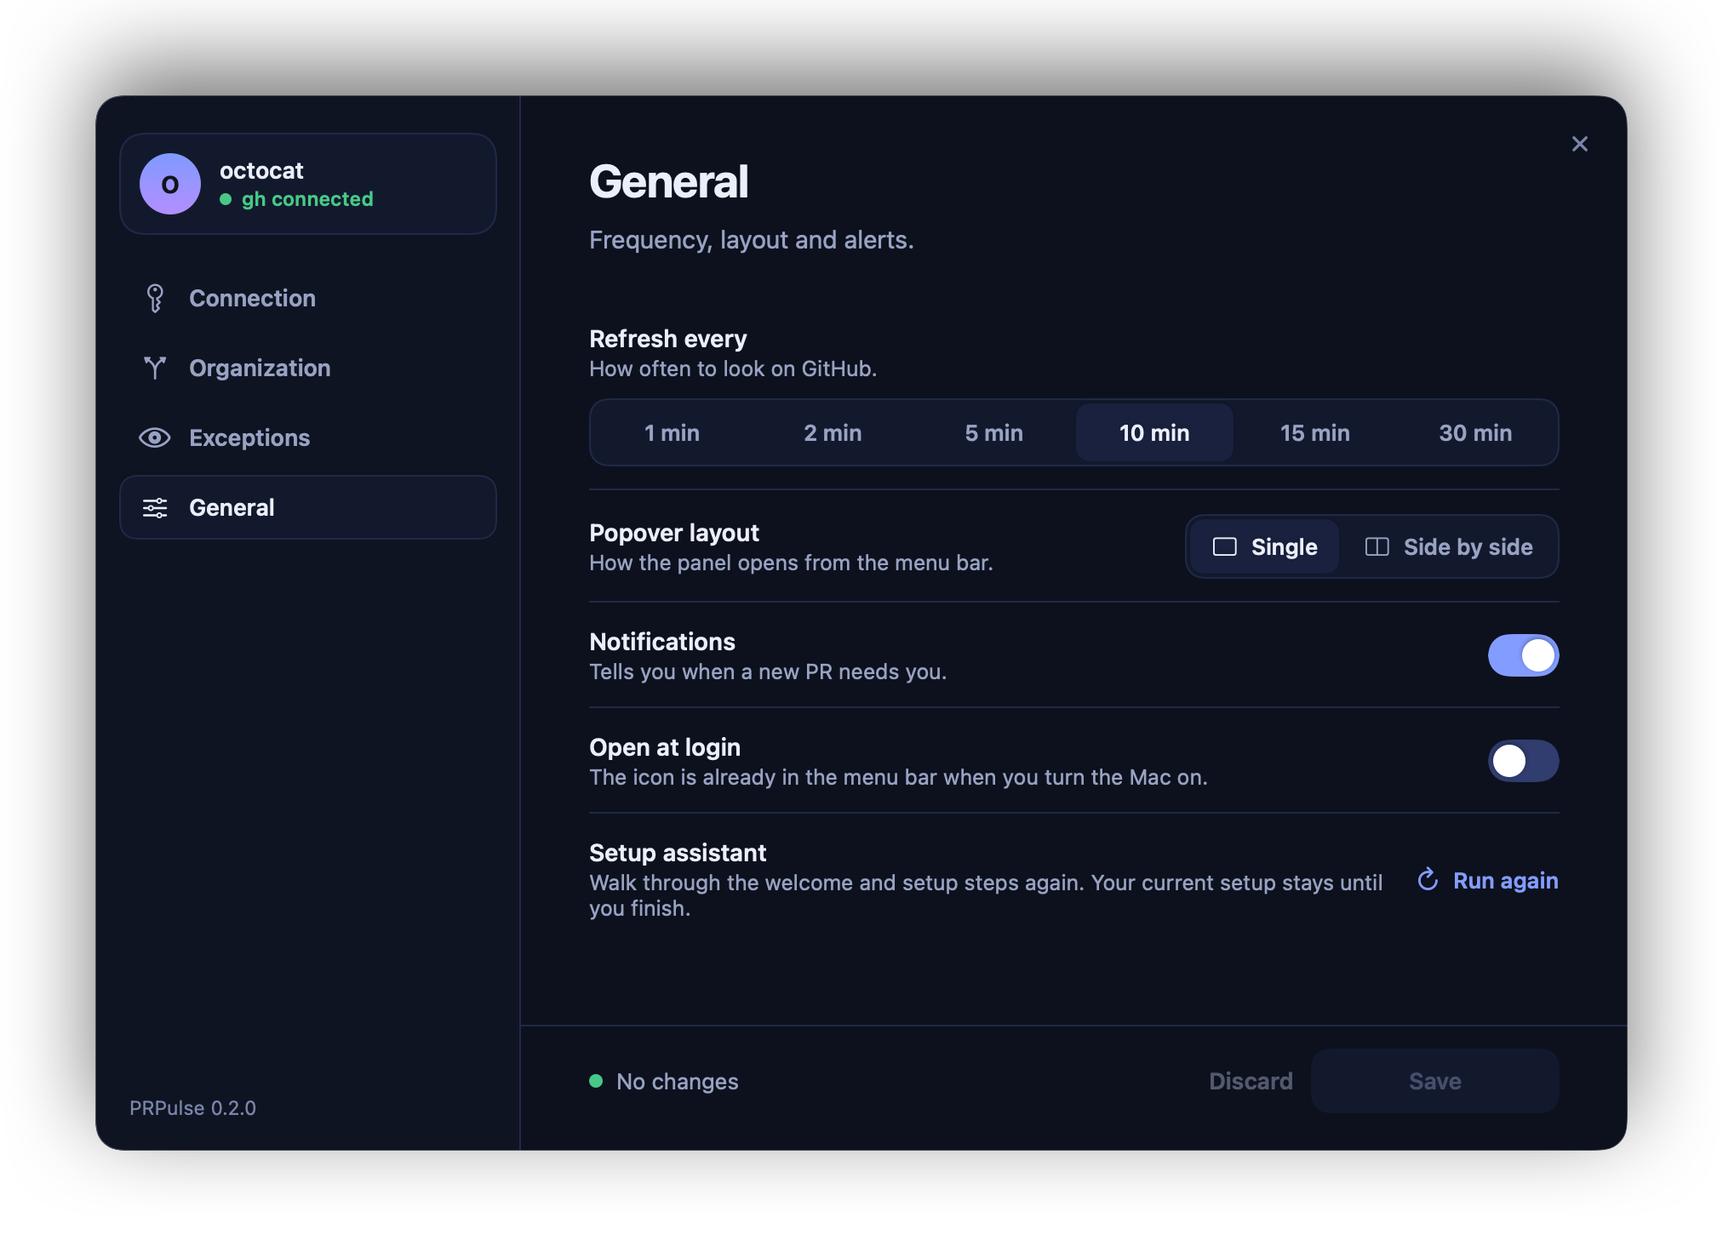
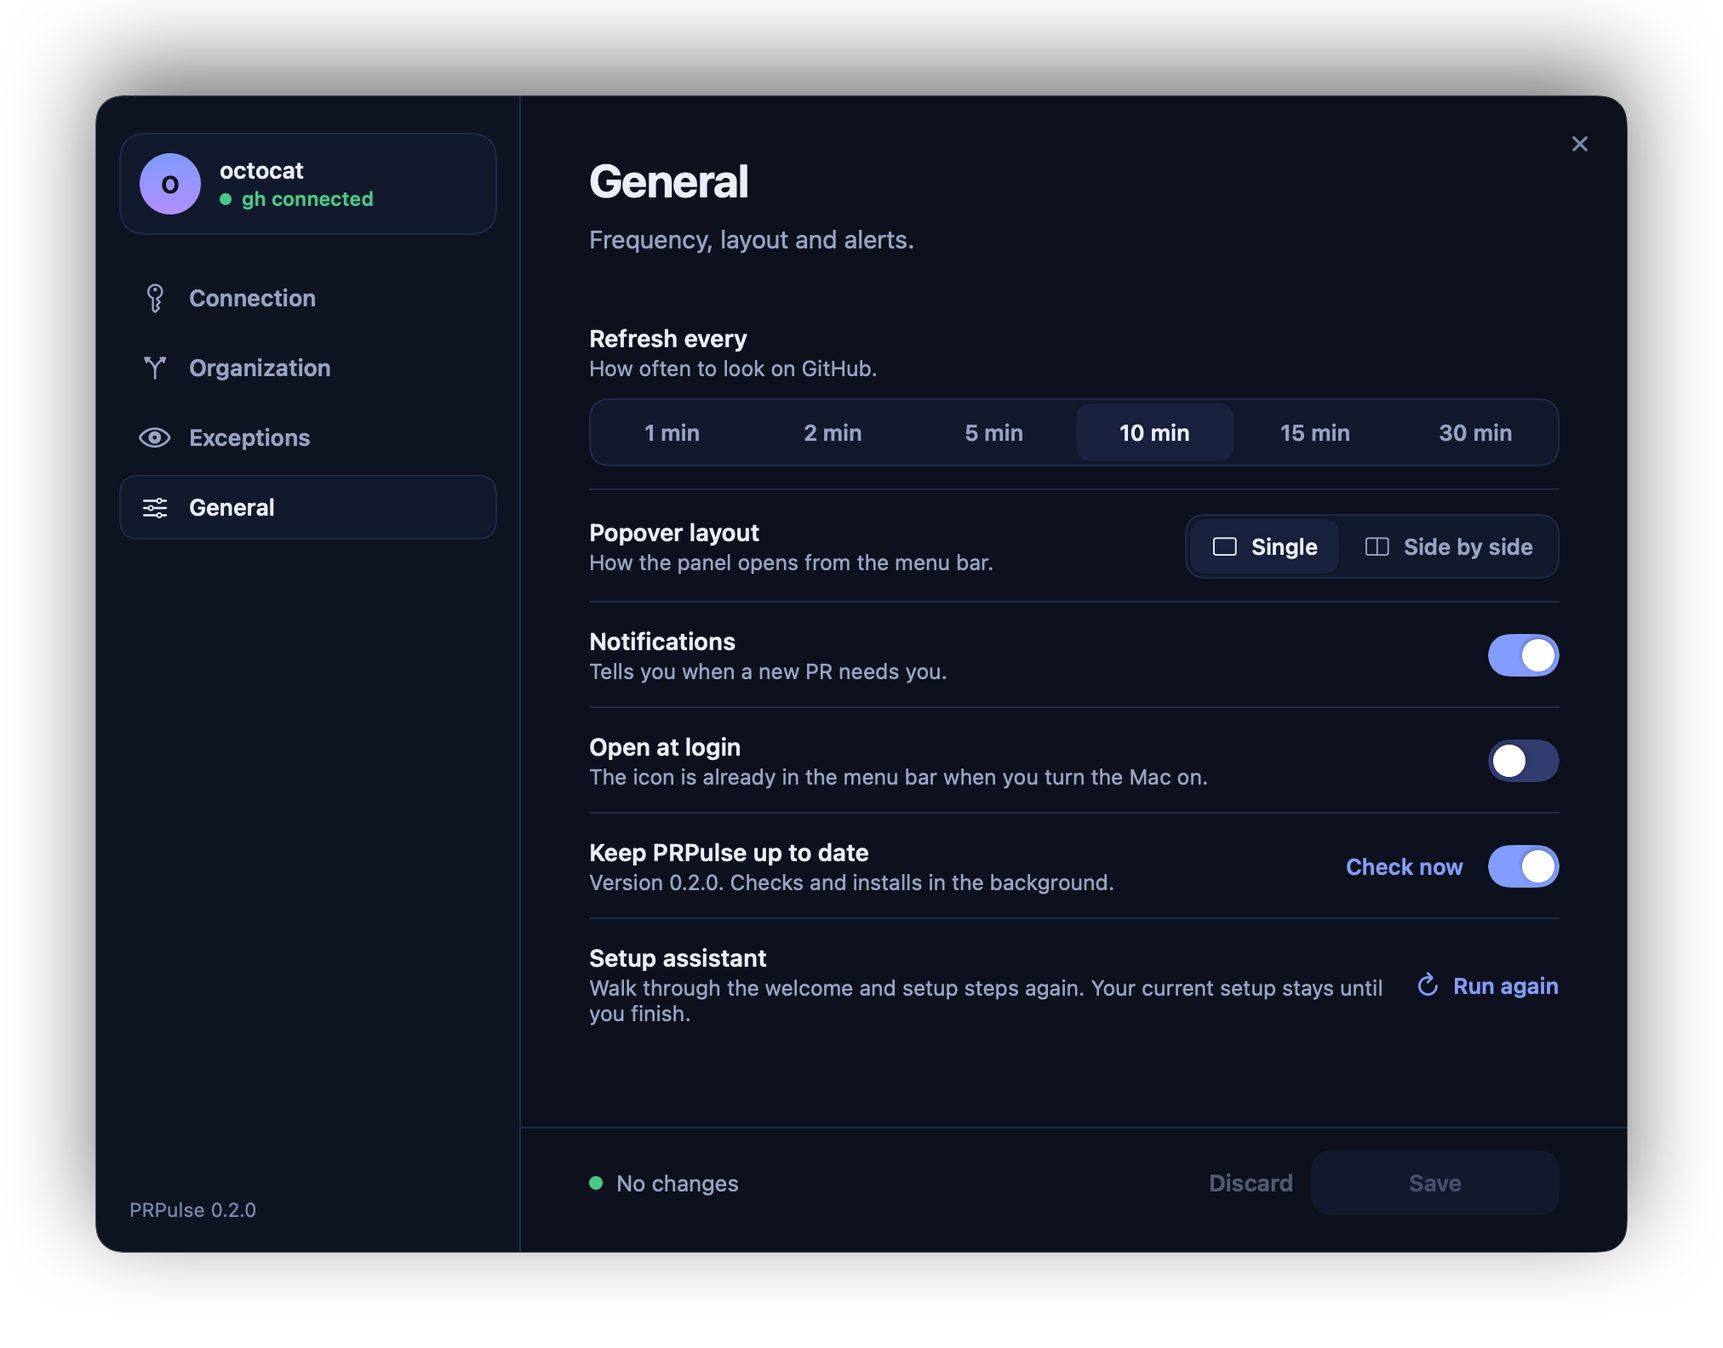
feat: self update with Sparkle
The app checks for new versions and installs them in the background, with a
switch and a check-now button in Settings and a menu item. Updates are verified
with an EdDSA key, so they don't need an Apple Developer ID. make release builds
the DMG and the signed appcast attached to each GitHub release.

diff --git a/Sources/PRPulse/SettingsView.swift b/Sources/PRPulse/SettingsView.swift
@@ -47,6 +47,7 @@ struct SettingsChanges {
         if draft.popoverLayout != saved.popoverLayout { pages.append(.general) }
         if draft.notificationsEnabled != saved.notificationsEnabled { pages.append(.general) }
         if draft.launchAtLogin != saved.launchAtLogin { pages.append(.general) }
+        if draft.automaticUpdates != saved.automaticUpdates { pages.append(.general) }
         self.pages = pages
     }
 
@@ -59,6 +60,7 @@ struct SettingsView: View {
     @ObservedObject var model: SetupModel
     let onSave: (AppSettings) -> Void
     let onRedoSetup: () -> Void
+    let onCheckForUpdates: () -> Void
     let onClose: () -> Void
 
     @LocalState private var page: SettingsPage
@@ -67,7 +69,7 @@ struct SettingsView: View {
     @LocalState private var didSave = false
     @Namespace private var navigation
 
-    static let size = CGSize(width: 900, height: 620)
+    static let size = CGSize(width: 900, height: 680)
     private static let sidebarWidth: CGFloat = 250
 
     init(
@@ -75,11 +77,13 @@ struct SettingsView: View {
         initialPage: SettingsPage = .connection,
         onSave: @escaping (AppSettings) -> Void,
         onRedoSetup: @escaping () -> Void,
+        onCheckForUpdates: @escaping () -> Void = {},
         onClose: @escaping () -> Void = {}
     ) {
         self.model = model
         self.onSave = onSave
         self.onRedoSetup = onRedoSetup
+        self.onCheckForUpdates = onCheckForUpdates
         self.onClose = onClose
         _page = LocalState(initialValue: initialPage)
         _saved = LocalState(initialValue: model.draft)
@@ -184,7 +188,7 @@ struct SettingsView: View {
                 case .connection: ConnectionContent(model: model)
                 case .organization: OrganizationContent(model: model)
                 case .exceptions: ExceptionsContent(model: model)
-                case .general: GeneralContent(model: model, onRedoSetup: onRedoSetup)
+                case .general: GeneralContent(model: model, onRedoSetup: onRedoSetup, onCheckForUpdates: onCheckForUpdates)
                 }
             }
             .padding(.top, 26)

diff --git a/Sources/PRPulseCore/Models/AppSettings.swift b/Sources/PRPulseCore/Models/AppSettings.swift
@@ -14,6 +14,7 @@ public struct AppSettings: Codable, Equatable, Sendable {
     public var ignoredBots: [String]
     public var notificationsEnabled: Bool
     public var launchAtLogin: Bool
+    public var automaticUpdates: Bool
     public var hasCompletedSetup: Bool
     public var popoverLayout: PopoverLayout
 
@@ -25,6 +26,7 @@ public struct AppSettings: Codable, Equatable, Sendable {
         ignoredBots: defaultIgnoredBots,
         notificationsEnabled: true,
         launchAtLogin: false,
+        automaticUpdates: true,
         hasCompletedSetup: false,
         popoverLayout: .single
     )
@@ -37,6 +39,7 @@ public struct AppSettings: Codable, Equatable, Sendable {
         ignoredBots: [String],
         notificationsEnabled: Bool,
         launchAtLogin: Bool,
+        automaticUpdates: Bool = true,
         hasCompletedSetup: Bool,
         popoverLayout: PopoverLayout = .single
     ) {
@@ -47,6 +50,7 @@ public struct AppSettings: Codable, Equatable, Sendable {
         self.ignoredBots = ignoredBots
         self.notificationsEnabled = notificationsEnabled
         self.launchAtLogin = launchAtLogin
+        self.automaticUpdates = automaticUpdates
         self.hasCompletedSetup = hasCompletedSetup
         self.popoverLayout = popoverLayout
     }
@@ -61,6 +65,7 @@ public struct AppSettings: Codable, Equatable, Sendable {
         ignoredBots = try values.decodeIfPresent([String].self, forKey: .ignoredBots) ?? base.ignoredBots
         notificationsEnabled = try values.decodeIfPresent(Bool.self, forKey: .notificationsEnabled) ?? base.notificationsEnabled
         launchAtLogin = try values.decodeIfPresent(Bool.self, forKey: .launchAtLogin) ?? base.launchAtLogin
+        automaticUpdates = try values.decodeIfPresent(Bool.self, forKey: .automaticUpdates) ?? base.automaticUpdates
         hasCompletedSetup = try values.decodeIfPresent(Bool.self, forKey: .hasCompletedSetup) ?? base.hasCompletedSetup
         popoverLayout = try values.decodeIfPresent(PopoverLayout.self, forKey: .popoverLayout) ?? base.popoverLayout
     }

diff --git a/Sources/PRPulse/WizardSteps.swift b/Sources/PRPulse/WizardSteps.swift
@@ -398,6 +398,7 @@ struct GeneralBody: View {
 struct GeneralContent: View {
     @ObservedObject var model: SetupModel
     var onRedoSetup: (() -> Void)?
+    var onCheckForUpdates: (() -> Void)?
 
     var body: some View {
         VStack(spacing: 0) {
@@ -407,7 +408,8 @@ struct GeneralContent: View {
                 .staggered(4)
             switchRow(tr("setup.general.launch"), detail: tr("wizard.general.launch.detail"), isOn: $model.draft.launchAtLogin)
                 .staggered(5)
-            if let onRedoSetup { redoRow(onRedoSetup).staggered(6) }
+            if let onCheckForUpdates { updatesRow(onCheckForUpdates).staggered(6) }
+            if let onRedoSetup { redoRow(onRedoSetup).staggered(7) }
         }
     }
 
@@ -443,6 +445,23 @@ struct GeneralContent: View {
         }
         .buttonStyle(.plain)
         .accessibilityAddTraits(selected ? .isSelected : [])
+    }
+
+    private func updatesRow(_ checkNow: @escaping () -> Void) -> some View {
+        HStack(spacing: 14) {
+            label(tr("settings.updates.auto.title"), detail: tr("settings.updates.auto.detail", SoftwareUpdater.version))
+            Spacer()
+            Button(action: checkNow) {
+                Text(tr("settings.updates.action"))
+                    .font(.system(size: 13, weight: .semibold))
+                    .foregroundStyle(WizardPalette.accent)
+            }
+            .buttonStyle(.plain)
+            Toggle(tr("settings.updates.auto.title"), isOn: $model.draft.automaticUpdates)
+                .toggleStyle(WizardSwitchStyle()).labelsHidden()
+        }
+        .padding(.vertical, 14)
+        .overlay(alignment: .bottom) { Rectangle().fill(WizardPalette.line).frame(height: 1) }
     }
 
     private func redoRow(_ action: @escaping () -> Void) -> some View {

diff --git a/Sources/PRPulse/SoftwareUpdater.swift b/Sources/PRPulse/SoftwareUpdater.swift
@@ -1,0 +1,45 @@
+import AppKit
+import Sparkle
+
+/// Sparkle behind a small seam. It only runs from a real bundle that carries a feed, so `swift run`, the tests and
+/// the demo modes never reach the network.
+@MainActor
+final class SoftwareUpdater {
+    static var version: String {
+        Bundle.main.object(forInfoDictionaryKey: "CFBundleShortVersionString") as? String ?? "dev"
+    }
+
+    private let controller: SPUStandardUpdaterController?
+    private let reminders = UpdateReminders()
+
+    init(enabled: Bool) {
+        let hasFeed = Bundle.main.object(forInfoDictionaryKey: "SUFeedURL") != nil
+        guard enabled, hasFeed else {
+            controller = nil
+            return
+        }
+        controller = SPUStandardUpdaterController(startingUpdater: true, updaterDelegate: nil, userDriverDelegate: reminders)
+    }
+
+    var isAvailable: Bool { controller != nil }
+
+    func apply(automatic: Bool) {
+        guard let updater = controller?.updater else { return }
+        updater.automaticallyChecksForUpdates = automatic
+        updater.automaticallyDownloadsUpdates = automatic
+    }
+
+    func checkForUpdates() {
+        controller?.checkForUpdates(nil)
+    }
+}
+
+/// A menu bar app is never frontmost, so a scheduled update would open its window behind everything else.
+private final class UpdateReminders: NSObject, SPUStandardUserDriverDelegate {
+    var supportsGentleScheduledUpdateReminders: Bool { true }
+
+    func standardUserDriverWillHandleShowingUpdate(_ handleShowingUpdate: Bool, forUpdate update: SUAppcastItem, state: SPUUserUpdateState) {
+        guard handleShowingUpdate else { return }
+        NSApp.activate(ignoringOtherApps: true)
+    }
+}

diff --git a/Sources/PRPulse/AppRuntime.swift b/Sources/PRPulse/AppRuntime.swift
@@ -17,12 +17,15 @@ final class AppRuntime: ObservableObject {
     let settings = SettingsStore()
     private let model: AppModel?
     private let notifier = Notifier()
+    private let updater: SoftwareUpdater
     private let windows = WindowManager()
     private var observation: AnyCancellable?
     private var ticker: Timer?
 
     init() {
         popoverLayout = settings.settings.popoverLayout
+        updater = SoftwareUpdater(enabled: DemoMode.current == nil)
+        updater.apply(automatic: settings.settings.automaticUpdates)
         if let demo = DemoMode.current {
             model = nil
             data = demo.viewData
@@ -57,6 +60,10 @@ final class AppRuntime: ObservableObject {
         settings.settings.notificationsEnabled.toggle()
     }
 
+    func checkForUpdates() {
+        updater.checkForUpdates()
+    }
+
     func popoverOpened() {
         openCount += 1
     }
@@ -79,6 +86,7 @@ final class AppRuntime: ObservableObject {
                 model: setup,
                 onSave: { [weak self] draft in self?.save(draft) },
                 onRedoSetup: { [weak self] in self?.redoSetup() },
+                onCheckForUpdates: { [weak self] in self?.checkForUpdates() },
                 onClose: { [weak self] in self?.windows.close(id: Self.settingsWindow) }
             )
         }
@@ -135,6 +143,7 @@ final class AppRuntime: ObservableObject {
         chosen.hasCompletedSetup = true
         settings.settings = chosen
         LaunchAtLogin.apply(chosen.launchAtLogin)
+        updater.apply(automatic: chosen.automaticUpdates)
         guard let model else { return }
         Task { await model.restart() }
     }

diff --git a/Sources/PRPulse/PopoverPanel.swift b/Sources/PRPulse/PopoverPanel.swift
@@ -249,6 +249,7 @@ extension PopoverController {
         menu.addItem(item(tr("menu.settings"), symbol: "slider.horizontal.3", key: ",", action: #selector(openSettings)))
         menu.addItem(.separator())
 
+        menu.addItem(item(tr("menu.updates"), symbol: "arrow.down.circle", action: #selector(checkForUpdates)))
         menu.addItem(item(tr("menu.about"), symbol: "info.circle", action: #selector(openAbout)))
         menu.addItem(item(tr("menu.quit"), symbol: "power", key: "q", action: #selector(quit)))
         return menu
@@ -291,6 +292,8 @@ extension PopoverController {
     @objc private func toggleNotifications() { runtime.toggleNotifications() }
 
     @objc private func openSettings() { runtime.openSettings() }
+
+    @objc private func checkForUpdates() { runtime.checkForUpdates() }
 
     @objc private func openAbout() {
         if let url = URL(string: "https://github.com/felipeferrarini/prpulse") { NSWorkspace.shared.open(url) }

diff --git a/Tests/PRPulseCoreTests/SettingsStoreTests.swift b/Tests/PRPulseCoreTests/SettingsStoreTests.swift
@@ -54,3 +54,15 @@ private func freshDefaults() -> UserDefaults {
     let old = try JSONDecoder().decode(AppSettings.self, from: Data(#"{"org":"acme"}"#.utf8))
     #expect(old.popoverLayout == .single)
 }
+
+@Test func automaticUpdatesAreOnByDefaultAndCanBeTurnedOff() throws {
+    #expect(AppSettings.defaults.automaticUpdates)
+
+    let old = try JSONDecoder().decode(AppSettings.self, from: Data(#"{"org":"acme"}"#.utf8))
+    #expect(old.automaticUpdates)
+
+    var settings = AppSettings.defaults
+    settings.automaticUpdates = false
+    let decoded = try JSONDecoder().decode(AppSettings.self, from: JSONEncoder().encode(settings))
+    #expect(!decoded.automaticUpdates)
+}

diff --git a/Package.swift b/Package.swift
@@ -9,11 +9,17 @@ let package = Package(
         .library(name: "PRPulseCore", targets: ["PRPulseCore"]),
         .executable(name: "PRPulse", targets: ["PRPulse"]),
     ],
+    dependencies: [
+        .package(url: "https://github.com/sparkle-project/Sparkle", from: "2.10.1"),
+    ],
     targets: [
         .target(name: "PRPulseCore"),
         .executableTarget(
             name: "PRPulse",
-            dependencies: ["PRPulseCore"],
+            dependencies: [
+                "PRPulseCore",
+                .product(name: "Sparkle", package: "Sparkle"),
+            ],
             resources: [.process("Resources")]
         ),
         .testTarget(

diff --git a/README.pt-BR.md b/README.pt-BR.md
@@ -42,6 +42,7 @@ O PRPulse consulta o GitHub a cada poucos minutos, mantém **duas listas curtas*
 - **Um ícone que avisa antes de você olhar:** um glifo de pull request que acompanha o tema da barra quando está tudo em dia, vira uma pílula laranja com o número quando algo precisa de você, faz um anel de pulso quando chega um item novo e fica vermelho se não conseguir atualizar.
 - **Menu do botão direito:** atualizar agora (⌘R), abrir no GitHub (buscas já filtradas pela sua organização), liga/desliga de notificações, Ajustes (⌘,), Sobre e Sair.
 - **Assistente de configuração** com prévia ao vivo do popover, e uma tela de **Ajustes** que conta as alterações não salvas (⌘S salva).
+- **Atualiza sozinho:** busca versões novas e instala em segundo plano (dá para desligar em Ajustes).
 - **Silencioso por padrão:** bots são ignorados, a primeira execução não despeja o backlog antigo em notificações e cada item avisa uma vez.
 
 <table>
@@ -96,7 +97,7 @@ Você precisa de macOS 14 ou mais novo e do toolchain Swift (Xcode ou as Command
 1. **Conexão:** reaproveite o login do [`gh`](https://cli.github.com) ou cole um token pessoal com os escopos `repo` e `read:org`.
 2. **Organização:** as que você mais usou nos últimos 90 dias vêm primeiro, com a contagem.
 3. **Exceções:** marque repositórios para ignorar (eles são listados a partir da organização) e edite as contas de bot a pular.
-4. **Ajustes:** frequência de atualização, notificações e abrir ao iniciar o Mac.
+4. **Ajustes:** frequência de atualização, notificações, abrir ao iniciar o Mac e atualizações automáticas.
 
 > [!NOTE]
 > Se a sua organização exige SAML SSO, autorize o token para ela no GitHub, senão o ícone vai para o estado de erro. O mesmo acontece se a organização for renomeada ou o token não enxergá-la. Tokens clássicos precisam do escopo `repo`, ou os repositórios privados nunca aparecem.
@@ -122,8 +123,10 @@ PRs abertas de outras pessoas na organização em que você não enviou review. 
 
 ## Privacidade
 
-- O PRPulse fala **só com o GitHub** (`api.github.com`), com as suas próprias credenciais. Não há servidor nosso, análise de uso nem telemetria.
+- O PRPulse fala **só com o GitHub** (`api.github.com` e `github.com`), com as suas próprias credenciais. Não há servidor nosso, análise de uso nem telemetria.
 - Um token pessoal fica no **Keychain do macOS**. Com a opção `gh`, o token é lido do `gh` na hora e nunca guardado pelo PRPulse.
+- A checagem de atualização lê um arquivo pequeno da página de releases em `github.com`. Nada sobre você ou o seu Mac é enviado.
+- As atualizações são assinadas com uma chave que só quem mantém o projeto tem, e o app recusa o que não bater.
 - O app é código aberto (MIT), então tudo isso pode ser conferido.
 
 ## Limites conhecidos
@@ -131,6 +134,7 @@ PRs abertas de outras pessoas na organização em que você não enviou review. 
 - Uma organização por vez.
 - Entrar pelo navegador ainda não existe; use o `gh` ou um token.
 - O app é assinado ad hoc, então depois de cada atualização o macOS pode perguntar de novo se o PRPulse pode ler o item do Keychain. Escolha **Sempre Permitir**; se negar, o ícone mostra o estado de erro.
+- Versões anteriores à 0.3.0 não se atualizam sozinhas: instale a mais recente uma vez, à mão ou com `brew upgrade`.
 
 ## Desenvolvimento
 
@@ -140,6 +144,7 @@ make app          # build universal, assinado ad hoc, em build/PRPulse.app
 make dmg          # build/PRPulse-<versão>.dmg
 make install      # compila e copia para /Applications
 make screenshots  # gera de novo as imagens de docs/images com dados fictícios
+make release      # DMG mais o feed de atualização assinado (build/feed/appcast.xml)
 ```
 
 `PRPulseCore` guarda as regras e o cliente do GitHub como código puro e testado; `PRPulse` é a casca do macOS. Rode o app com dados fictícios usando `PRPULSE_DEMO=pending|fresh|empty|error|unconfigured`. Veja a seção [Development](README.md#development) do README em inglês para a estrutura completa.

diff --git a/README.md b/README.md
@@ -120,6 +120,7 @@ Everything can be changed later in **Settings**, which counts your unsaved chang
 - **Bots are ignored.** Comments from CodeRabbit, SonarQube and any account GitHub marks as a bot never count (the list is yours to edit).
 - **No flood on day one.** The first run learns what is already pending and stays silent. An item notifies once.
 - **One organization at a time**, with a list of repositories to ignore. A PR in an ignored repository still shows if you are a requested reviewer, directly or through a team such as CODEOWNERS.
+- **Updates itself.** It checks for new versions and installs them in the background (you can turn that off in Settings).
 - English and Portuguese, following your system language.
 
 ## Install
@@ -187,8 +188,10 @@ Every row shows how long the PR has been open: neutral under a day, amber from o
 
 ## Privacy
 
-- PRPulse talks **only to GitHub** (`api.github.com`) with your own credentials. There is no server of ours, no analytics and no telemetry.
+- PRPulse talks **only to GitHub** (`api.github.com` and `github.com`) with your own credentials. There is no server of ours, no analytics and no telemetry.
 - A personal token is stored in the **macOS Keychain**. With the `gh` option, the token is read from `gh` on demand and never stored by PRPulse.
+- Update checks read one small feed file from your releases page on `github.com`. Nothing about you or your Mac is sent.
+- Updates are signed with a key only the maintainer holds, and the app refuses anything that doesn't match.
 - The app is open source (MIT), so all of this is checkable.
 
 ## Settings at a glance
@@ -198,13 +201,14 @@ Every row shows how long the PR has been open: neutral under a day, amber from o
 | **Connection** | `gh` login or a personal token |
 | **Organization** | which organization to watch |
 | **Exceptions** | repositories and bot accounts to ignore |
-| **General** | refresh interval (1 to 30 minutes), popover layout, notifications, open at login, run the setup again |
+| **General** | refresh interval (1 to 30 minutes), popover layout, notifications, open at login, automatic updates, run the setup again |
 
 ## Known limits
 
 - One organization at a time.
 - Sign-in through the browser is not available yet; use `gh` or a token.
 - The app is signed ad hoc, so after each update macOS may ask again whether PRPulse can read its Keychain item. Choose **Always Allow**; if you deny it, the icon shows the error state.
+- Versions before 0.3.0 don't update themselves: install the latest once, by hand or with `brew upgrade`.
 
 ## Development
 
@@ -222,6 +226,7 @@ make app          # universal, ad-hoc signed build/PRPulse.app
 make dmg          # build/PRPulse-<version>.dmg
 make install      # build and copy to /Applications
 make screenshots  # re-render docs/images with fake data (English UI)
+make release      # DMG plus the signed update feed (build/feed/appcast.xml)
 ```
 
 Run the app with fake data using `PRPULSE_DEMO=pending|fresh|empty|error|unconfigured`. To iterate on the interface without a GitHub account, that is all you need.

diff --git a/CHANGELOG.md b/CHANGELOG.md
@@ -2,6 +2,13 @@
 
 All notable changes to PRPulse. The format follows [Keep a Changelog](https://keepachangelog.com/en/1.1.0/).
 
+## [0.3.0] - 2026-10-29
+
+### Added
+
+- Self update with [Sparkle](https://sparkle-project.org): the app checks for new versions and installs them in the background. Turn it off in Settings, or use "Check for Updates…" in the right click menu or in Settings. Updates are verified with an EdDSA signature, so they don't need an Apple Developer ID.
+- `make appcast` signs the DMG and writes the update feed that is attached to each release.
+
 ## [0.2.0] - 2026-10-29
 
 ### Added
